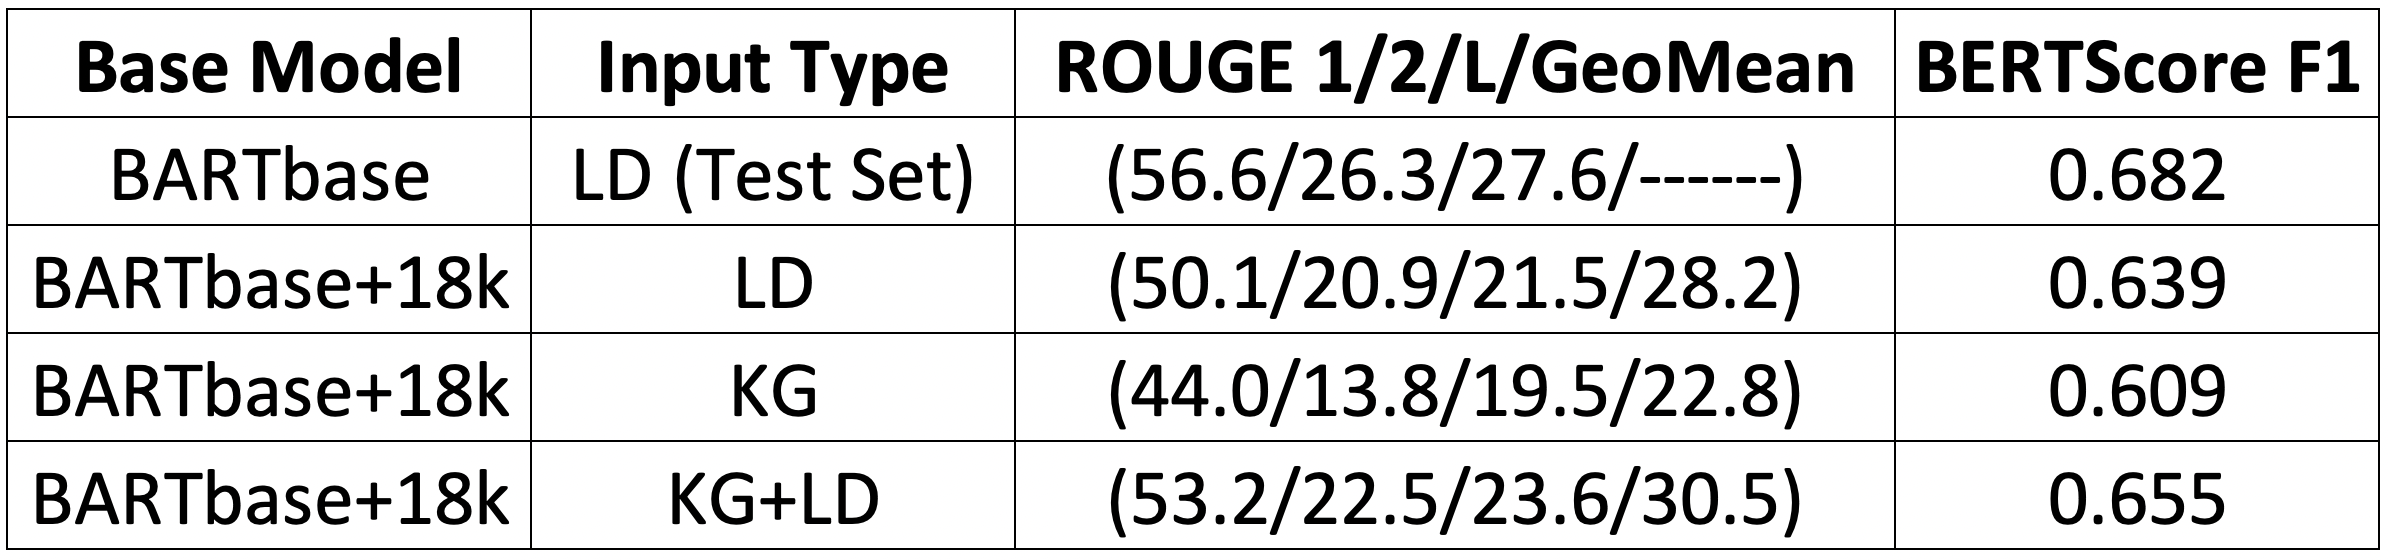
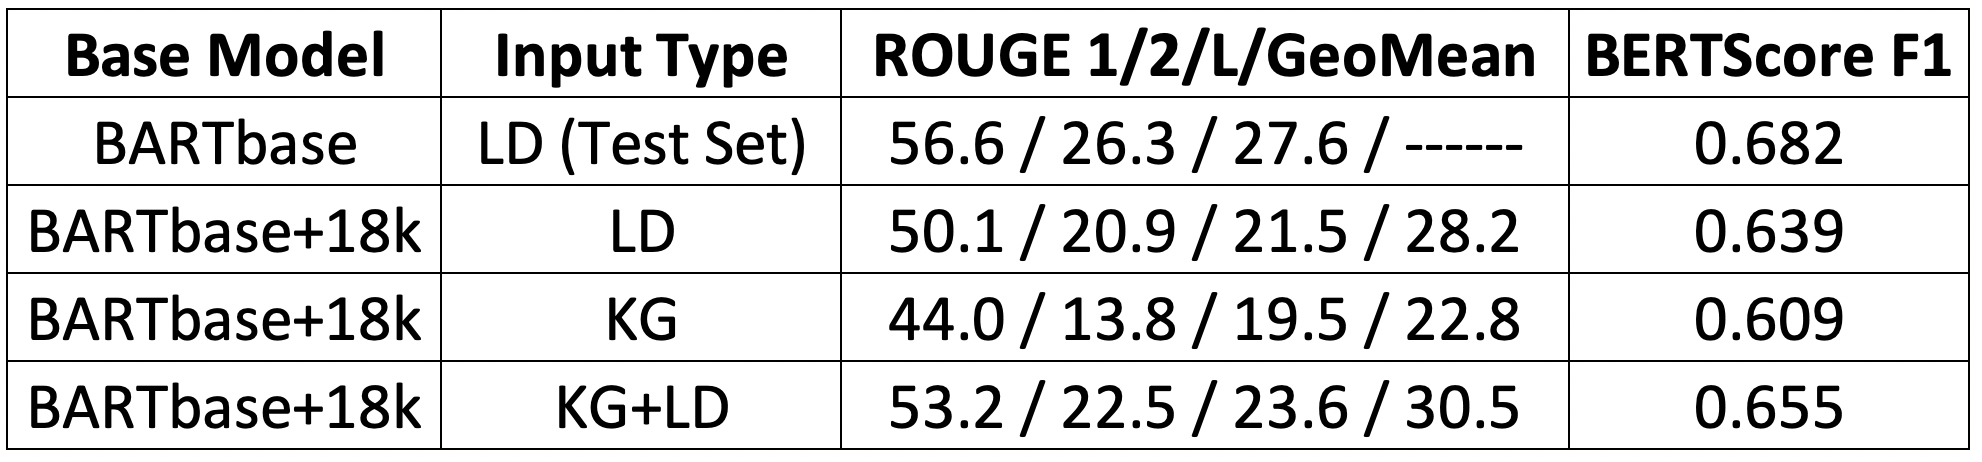
changed table formating and added initial results metrics

diff --git a/cs224w-project-report-latex/main.md b/cs224w-project-report-latex/main.md
@@ -128,13 +128,16 @@ dataset](https://huggingface.co/datasets/patrickocal/gov_report_kg/viewer/gov_re
 port_kg_comb) replaces each LD with a single string that is the concatenation of
 the KG and LD.
 
-![Inputs Table](images/input_stats.png)
-|       | Input Token Lengths (Train/Validation/Test) |       |       |         |
-|-------|---------------------------------------------|-------|-------|---------|
-|       | Average                                     | Min   | Max   | Std Dev |
-| LD    | (9617/10044/9209)                          | (74/237/561) | (303192/69300/38735) | (7644/7106/5446) |
-| KG    | (2820/2902/2766)                           | (121/401/223) | (63988/13049/12728) | (2013/1782/1625) |
-| KG+LD | (13203/13854/12829)                        | (487/1541/825) | (313947/77692/58815) | (9753/9065/7525) |
+<!-- ![Inputs Table](images/input_stats.png) -->
+
+|       | Average                 | Min             | Max                      | Std Dev              |
+|-------|-------------------------|-----------------|--------------------------|----------------------|
+| LD    | 9617 / 10044 / 9209     | 74 / 237 / 561  | 303192 / 69300 / 38735   | 7644 / 7106 / 5446   |
+| KG    | 2820 / 2902 / 2766      | 121 / 401 / 223 | 63988 / 13049 / 12728    | 2013 / 1782 / 1625   |
+| KG+LD | 13203 / 13854 / 12829   | 487 / 1541 / 825 | 313947 / 77692 / 58815  | 9753 / 9065 / 7525   |
+
+Input Token Lengths (Train/Validation/Test)
+
 
 
 ### Training BART+Unlimiformer 
@@ -178,7 +181,7 @@ with a typical range of 600 to 1100. The target/golden summaries for GovReport
 are closer to the latter with the number of tokens being 600 on average with a
 typical range of between 400 and 1000.
 
-![Initial Results Table](images/initial_results_stats.png)
+<!-- ![Initial Results Table](images/initial_results_stats.png) -->
 
 Initial Result Summary Token Lengths (Validation) 
 |        | Average                                          | Min | Max  | Std Dev |
@@ -187,6 +190,14 @@ Initial Result Summary Token Lengths (Validation)
 | KG     | 737                                              | 494 | 1022 | 65     |
 | KG+LD  | 755                                              | 500 | 916  | 52     |
 
+<!-- ![Initial Table](images/initial_table.png) -->
+
+| Base Model      | Input Type     | ROUGE 1/2/L/GeoMean | BERTScore F1 |
+|-----------------|----------------|---------------------|--------------|
+| BARTbase        | LD (Test Set)  | 56.6 / 26.3 / 27.6 / ---- | 0.682       |
+| BARTbase+18k    | LD             | 23.9 / 12.6 / 15.3 / 16.6   | 0.601       |
+| BARTbase+18k    | KG             | 21.9 / 21.4 / 13.4 / 21.2   | 0.596       |
+| BARTbase+18k    | KG+LD          | 42.4 / 12.6 / 18.1 / 21.3   | 0.598       |
 
 We explore the cause of these differences and refine our experiments to control
 for length of summary. We do so by re-initializing training with a model that
@@ -200,7 +211,7 @@ with our initial hypothesis. We summarise these results in
 [\[fig:summary-of-results-intro\]](#fig:summary-of-results-intro){reference-type="ref"
 reference="fig:summary-of-results-intro"}.
 
-![Final Results Table](images/final_results_stats.png)
+<!-- ![Final Results Table](images/final_results_stats.png) -->
 
 Final Result Summary Token Lengths (Validation) 
 |        | Average                                        | Min  | Max  | Std Dev|
@@ -210,14 +221,15 @@ Final Result Summary Token Lengths (Validation)
 | KG+LD  | 657                                            | 476  | 1023 | 109    |
 
 
-![Results Table](images/results_table.png)
+<!-- ![Results Table](images/results_table.png) -->
 
-| Base Model     | Input Type | ROUGE 1/2/L/GeoMean       | BERTScore F1 |
-|----------------|------------|---------------------------|--------------|
-| BARTbase       | LD (Test Set) | (56.6/26.3/27.6/-----) | 0.682        |
-| BARTbase+18k   | LD         | (50.1/20.9/21.5/28.2)    | 0.639        |
-| BARTbase+18k   | KG         | (44.0/13.8/19.5/22.8)    | 0.609        |
-| BARTbase+18k   | KG+LD      | (53.2/22.5/23.6/30.5)    | 0.655        |
+| Base Model     | Input Type    | ROUGE 1/2/L/GeoMean | BERTScore F1 |
+|----------------|---------------|---------------------|--------------|
+| BARTbase       | LD (Test Set) | 56.6 / 26.3 / 27.6 / ------ | 0.682      |
+| BARTbase+18k   | LD            | 50.1 / 20.9 / 21.5 / 28.2   | 0.639      |
+| BARTbase+18k   | KG            | 44.0 / 13.8 / 19.5 / 22.8   | 0.609      |
+| BARTbase+18k   | KG+LD         | 53.2 / 22.5 / 23.6 / 30.5   | 0.655      |
+
 
 
 
